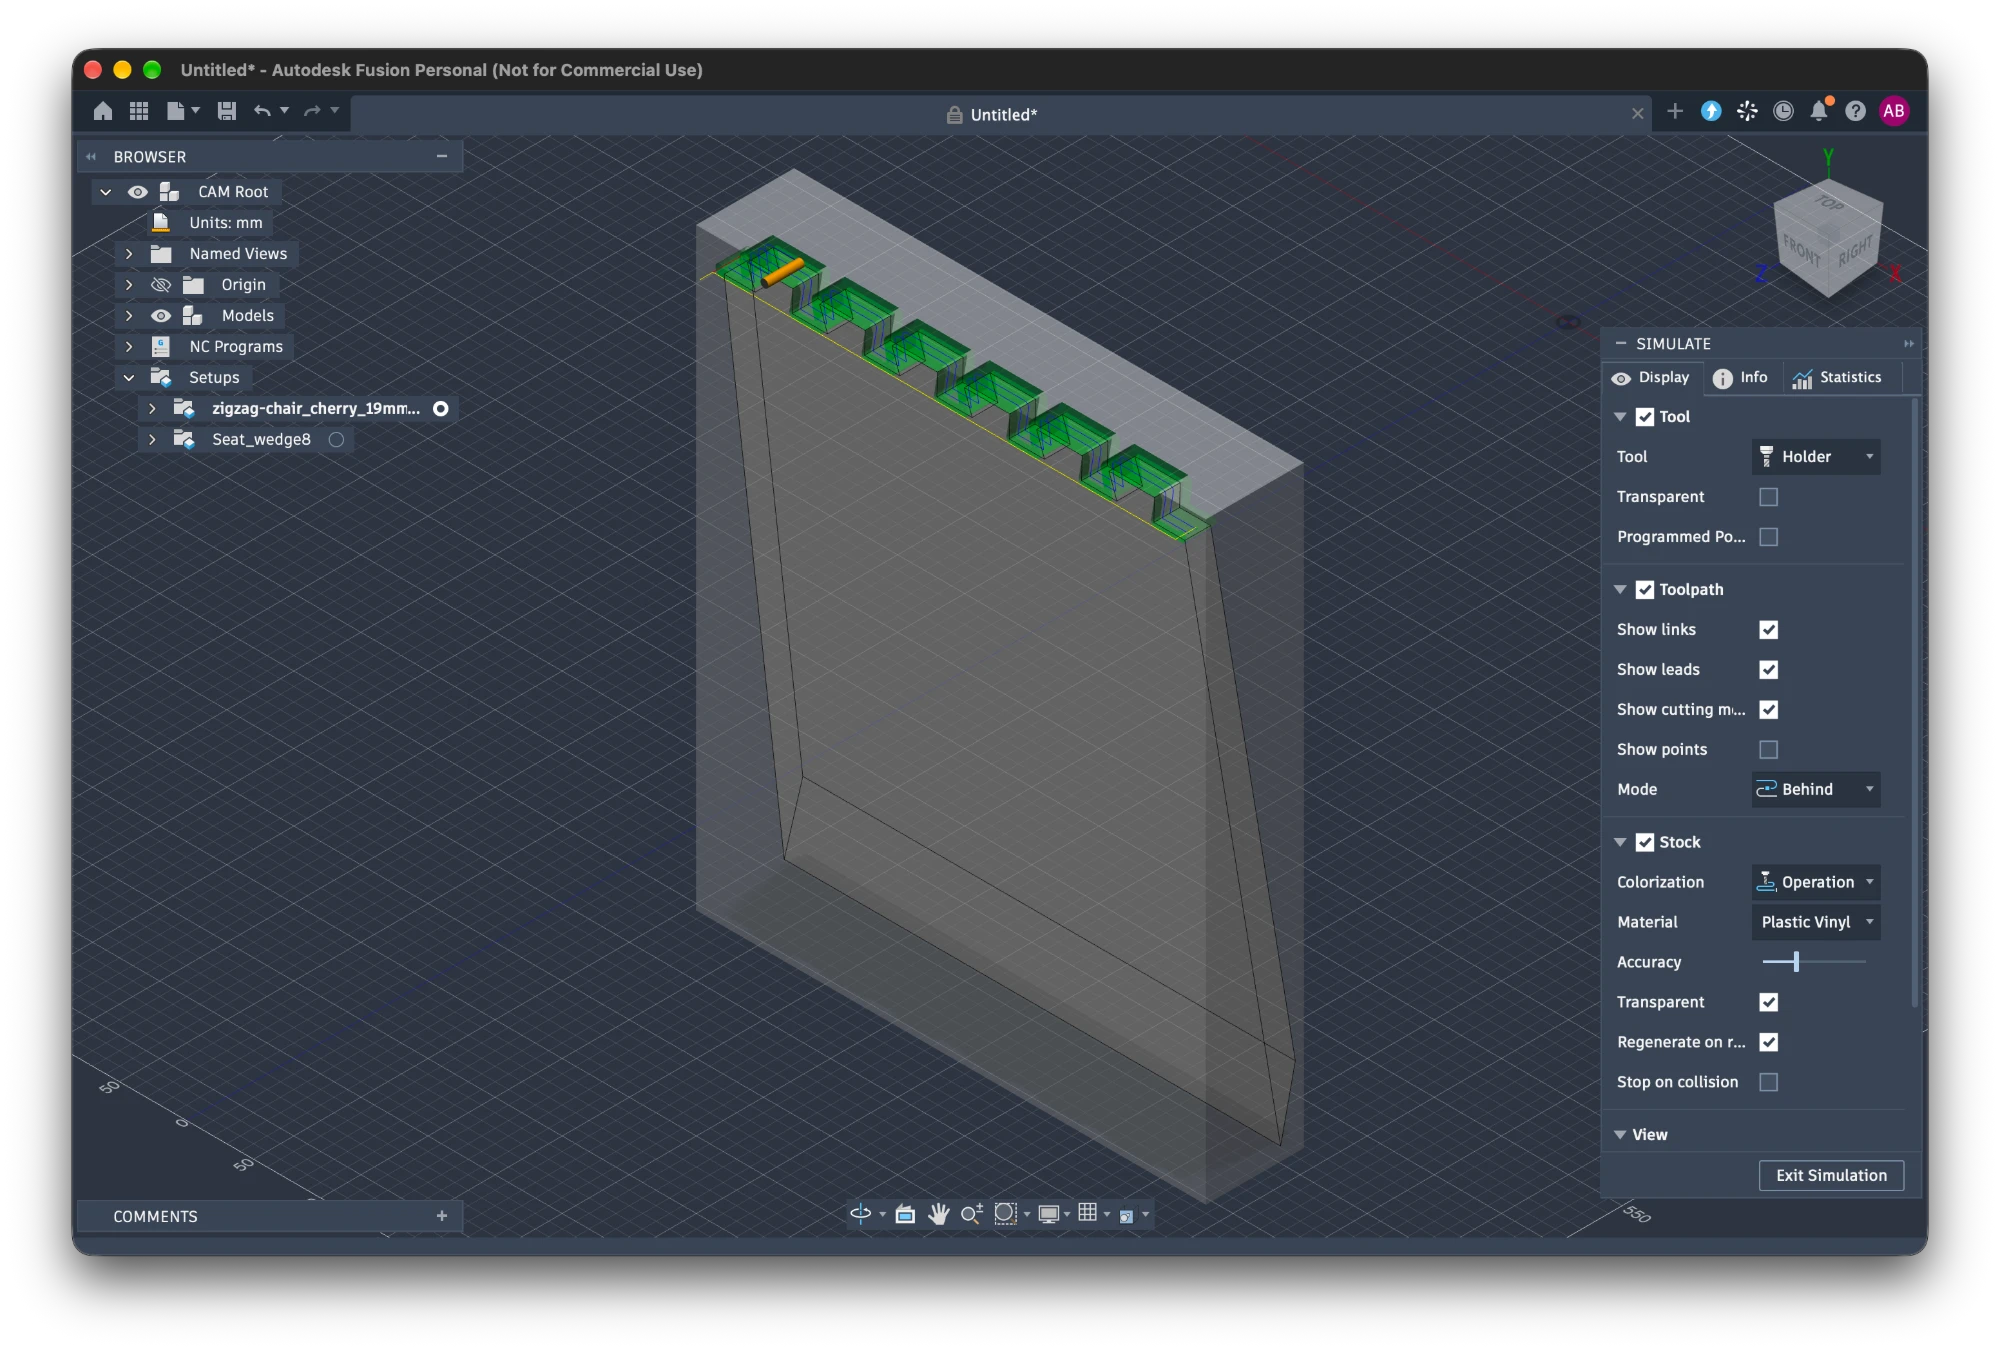
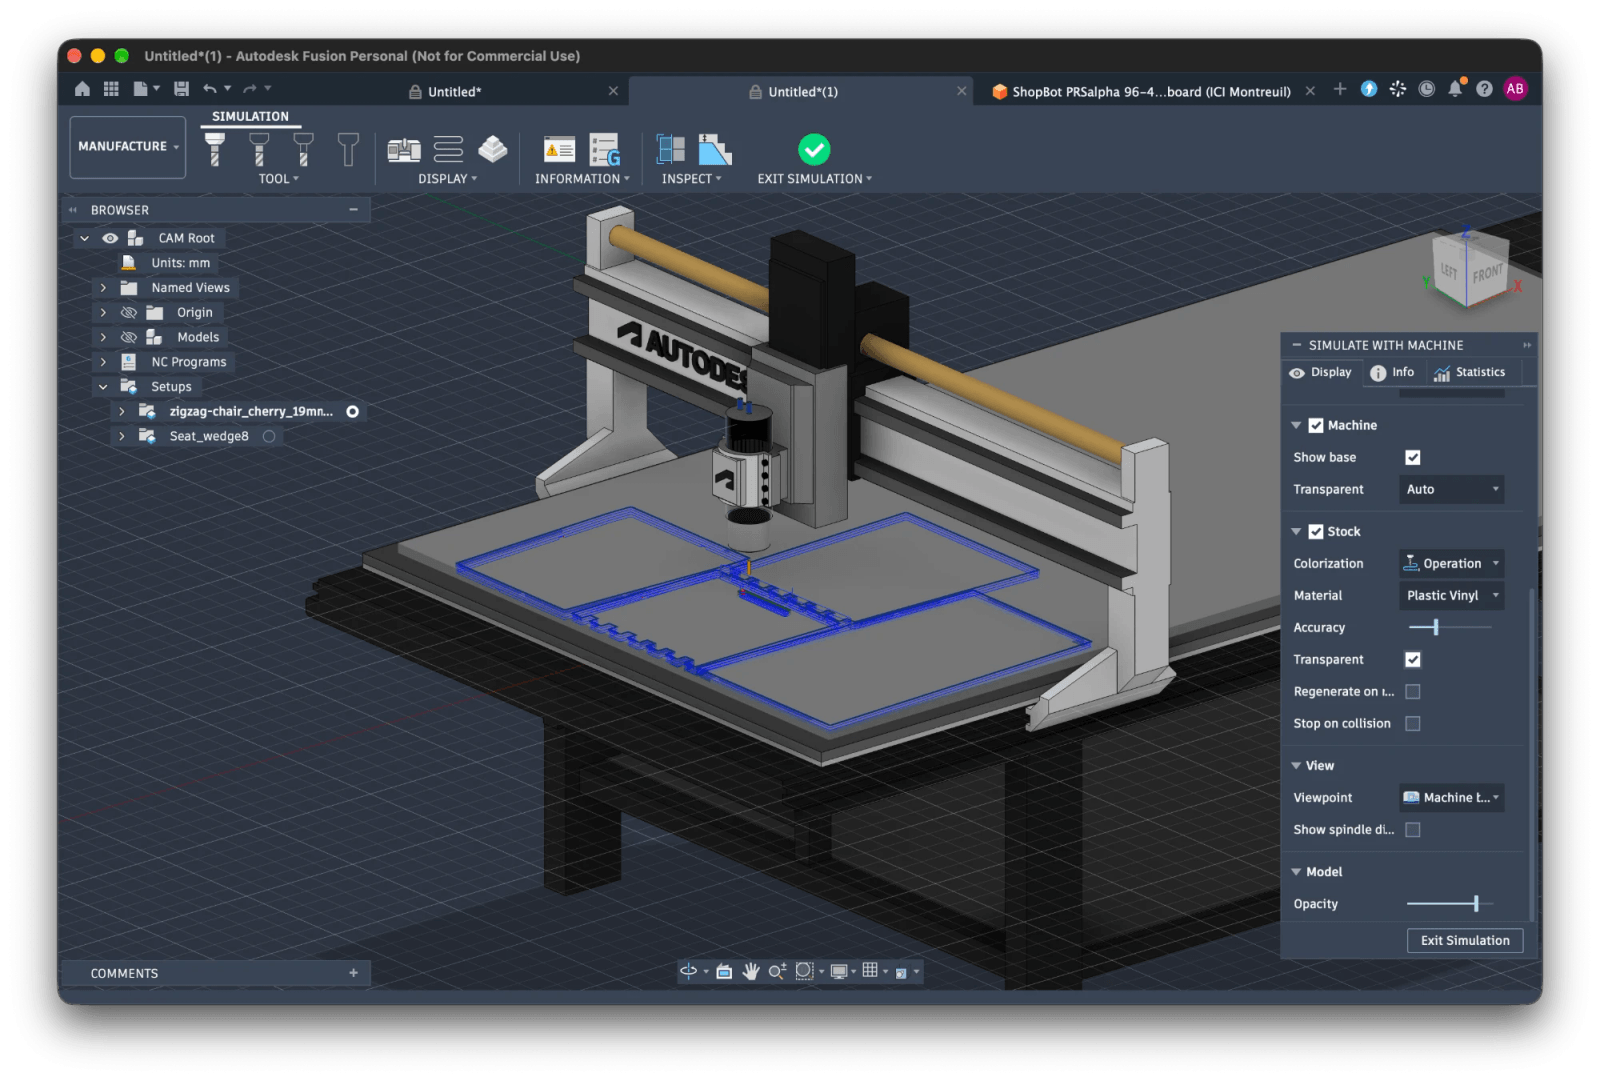
docs: Simulate with Machine capture, the ShopBot's Fusion setup

diff --git a/docs/cam.md b/docs/cam.md
@@ -32,9 +32,26 @@ pnpm cam zigzag-chair --force --keep   # then Simulate the setups in Fusion
 pnpm cam --force                       # every model, every file made again
 ```
 
-With `--keep`, the document stays open in Fusion: select a setup, Actions > Simulate, and watch the stock go.
+With `--keep`, the document stays open in Fusion: select a setup, Actions > Simulate, and watch the stock go. With a machine on the setup, Simulate with Machine shows the sheet on the ShopBot, and the tool going into anything it should not.
 
-![Fusion's Simulate on the zigzag chair's Seat_wedge8 setup: the seat on its wedge, the stock transparent, the tool cutting the dovetails' walls](https://abernier.github.io/integral/integral/cam/simulate.png)
+![Fusion's Simulate with Machine on the zigzag chair's sheet: the ShopBot's gantry over the cherry sheet, the toolpaths in blue, no collision](https://abernier.github.io/integral/integral/cam/simulate.png)
+
+<details>
+<summary>The ShopBot in Fusion</summary>
+
+The machine is a local Fusion setting, not in the repo. Fusion's API cannot put a simulation-ready machine on a setup, so it is picked by hand on each `--keep` run: double-click the setup, Machine > Select > My machines > Local.
+
+It is Autodesk's generic 3-axis router, made into the workshop's ShopBot PRSalpha 96-48:
+
+- travel X 2500, Y 1250, Z 150 mm; spindle 6000 to 18000 rpm;
+- the table stretched along X to 2540 x 1300 mm, with a 19 mm spoilboard on it;
+- the sheet centred on the spoilboard: the table's attach point at `[-809, -57, 19.3]`.
+
+The 0.3 above the spoilboard is the cut's overcut (`deepest` in `cam.json` is the thickness plus 0.3): the planned pass below the sheet cuts air, and a deeper one hits the spoilboard and shows as a collision. Change one, change the other.
+
+The machine is a `.mch` file in Fusion's machine library (`~/Library/Application Support/Autodesk/CAM360/machines/` on macOS), and its 3D model is a Fusion document in the cloud, which the `.mch` names. Fusion places the sheet in the document's coordinates, so the attach point holds for Z-up documents only: set Preferences > General > Default modeling orientation to Z up.
+
+</details>
 
 Files that already exist are left alone, so a run is cheap to repeat. To work on one part, `--only <part>` writes to a folder of its own.
 
